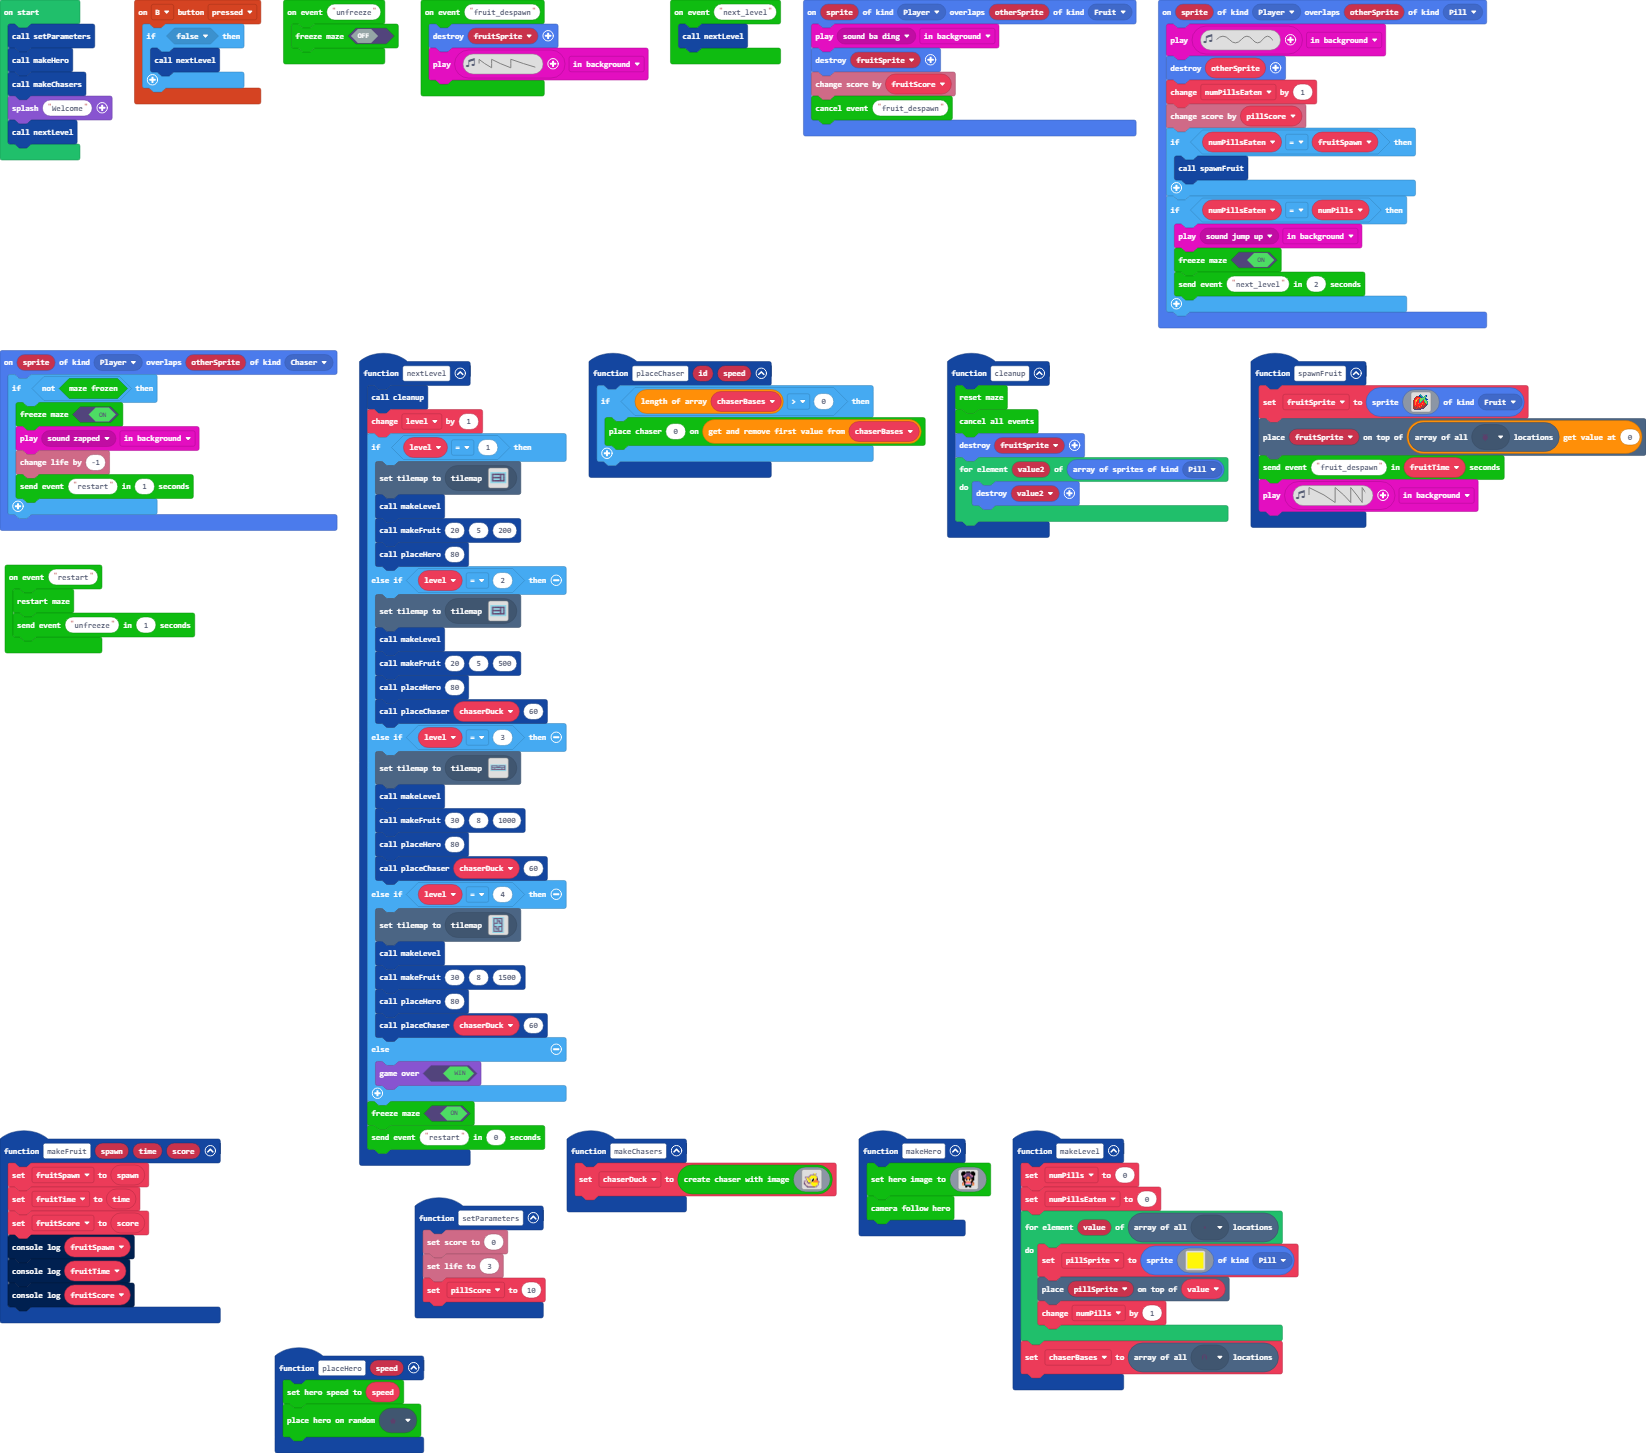
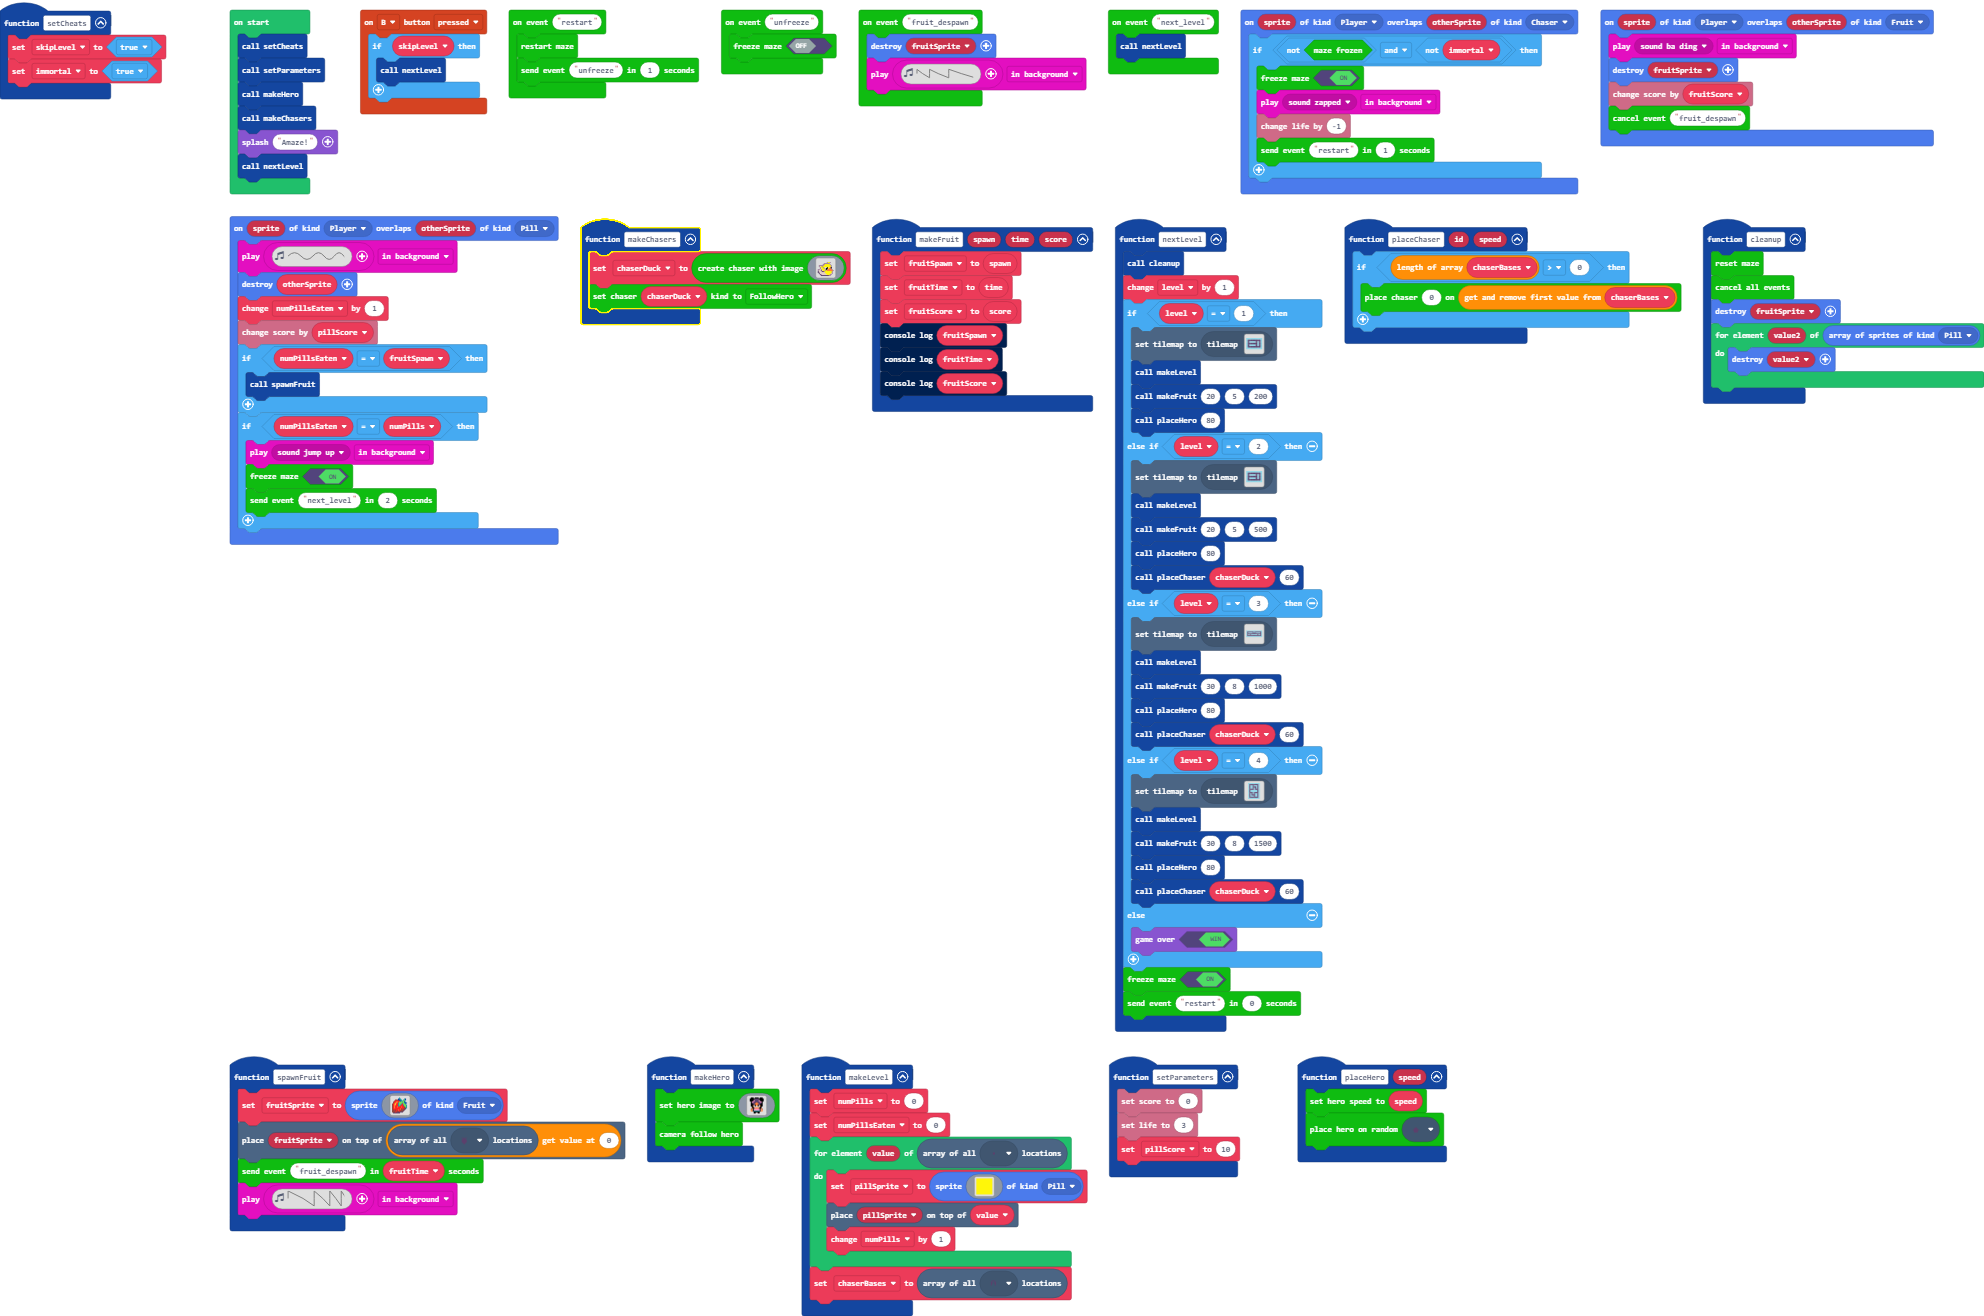
Chaser follow behaviour

diff --git a/maze_chaser.ts b/maze_chaser.ts
@@ -13,11 +13,19 @@ namespace maze {
         _mover: Mover
         _kind: ChaserKind
         _mode: ChaserMode
+        _homeX: number
+        _homeY: number
+        _targetX: number
+        _targetY: number
 
         constructor() {
             this._mover = new Mover()
             this._kind = ChaserKind.Random
             this._mode = ChaserMode.Chase
+            this._homeX = 0
+            this._homeY = 0
+            this._targetX = 0
+            this._targetY = 0
         }
 
         reset() {
@@ -34,10 +42,12 @@ namespace maze {
             if (stopped || m._changedTile) {
                 // Select the required behaviour
                 if (this._mode = ChaserMode.Scatter) {
-                    this.requestScatter()
+                    this.doScatter()
                 } else if (this._mode = ChaserMode.Chase) {
                     if (this._kind == ChaserKind.Random) {
-                        this.requestRandom()
+                        this.doRandom()
+                    } else if (this._kind == ChaserKind.FollowHero) {
+                        this.doFollow()
                     }
                 }
             }
@@ -45,15 +55,22 @@ namespace maze {
             this._mover.update()
         }
 
+        setHome() {
+            this._homeX = this._mover._tileX
+            this._homeY = this._mover._tileY
+        }
+
         private canMove(dir: Direction): boolean {
             return (this._mover._direction != opposite(dir) && this._mover.canMove(dir))
         }
 
-        private requestScatter() {
-
+        private doScatter() {
+            this._targetX = this._homeX
+            this._targetY = this._homeY
+            this.doTarget()
         }
 
-        private requestRandom() {
+        private doRandom() {
             let dirs: Direction[] = [Direction.Up, Direction.Right, Direction.Down, Direction.Left]
             let options: Direction[] = []
 
@@ -66,6 +83,40 @@ namespace maze {
             if (options.length > 0) {
                 const r = Math.randomRange(0, options.length - 1)
                 this._mover.request(options[r])
+            }
+        }
+
+        private doFollow() {
+            const hero = getMaze()._hero
+            this._targetX = hero._mover._tileX
+            this._targetY = hero._mover._tileY
+            this.doTarget()
+        }
+
+        private doTarget() {
+            // Get distance to target in each axis
+            const dx = (this._targetX - this._mover._tileX)
+            const dy = (this._targetY - this._mover._tileY)
+
+            // Decide prefered direction for each axis
+            const dirX = (dx > 0) ? Direction.Right : Direction.Left
+            const dirY = (dy > 0) ? Direction.Down : Direction.Up
+
+            let dirs: Direction[]
+            if (Math.abs(dx) > Math.abs(dy)) {
+                // Want to right direction in x then y
+                dirs = [dirX, dirY, opposite(dirY), opposite(dirX)]
+            } else {
+                // Want to right direction in y then x
+                dirs = [dirY, dirX, opposite(dirX), opposite(dirY)]
+            }
+
+            // Request the first direction than is allowed
+            for (const dir of dirs) {
+                if (this.canMove(dir)) {
+                    this._mover.request(dir)
+                    break
+                }
             }
         }
     }
@@ -96,6 +147,7 @@ namespace maze {
         const chaser = getChaser(id)
         if (chaser) {
             chaser._mover.placeOnImage(img)
+            chaser.setHome()
         }
     }
 
@@ -108,6 +160,7 @@ namespace maze {
         const chaser = getChaser(id)
         if (chaser) {
             chaser._mover.placeOnTile(loc)
+            chaser.setHome()
         }
     }
 
@@ -119,6 +172,17 @@ namespace maze {
         const chaser = getChaser(id)
         if (chaser) {
             chaser._mover._speed = speed
+        }
+    }
+
+    //% blockId=maze_chaser_set_kind
+    //% group="Chaser"
+    //% block="set chaser $id kind to $kind"
+    //% speed.defl=ChaserKind.Random
+    export function setChaserKind(id: number, kind: ChaserKind) {
+        const chaser = getChaser(id)
+        if (chaser) {
+            chaser._kind = kind
         }
     }
 }

diff --git a/maze_mover.ts b/maze_mover.ts
@@ -5,8 +5,8 @@ namespace maze {
         _y: number
         _vx: number
         _vy: number
-        _tx: number
-        _ty: number
+        _tileX: number
+        _tileY: number
         _canMove: number
         _direction: Direction
         _request: Direction
@@ -20,8 +20,8 @@ namespace maze {
             this._y = 0         // world y
             this._vx = 0
             this._vy = 0
-            this._tx = 0        // tilemap x
-            this._ty = 0        // tilemap y
+            this._tileX = 0        // tilemap x
+            this._tileY = 0        // tilemap y
             this._canMove = 0
             this._direction = Direction.None
             this._request = Direction.None
@@ -66,8 +66,8 @@ namespace maze {
                 this._y = this._sprite.y
                 this._vx = 0
                 this._vy = 0
-                this._tx = loc.col
-                this._ty = loc.row
+                this._tileX = loc.col
+                this._tileY = loc.row
                 this._direction = Direction.None
                 this._request = Direction.None
                 this._changedTile = false
@@ -99,9 +99,9 @@ namespace maze {
 
             const tx = loc.col
             const ty = loc.row
-            this._changedTile = (this._tx != tx) || (this._ty != ty)
-            this._tx = tx
-            this._ty = ty
+            this._changedTile = (this._tileX != tx) || (this._tileY != ty)
+            this._tileX = tx
+            this._tileY = ty
             this.updateCanMove()
 
             // Ignore if request is same as current direction
@@ -205,10 +205,10 @@ namespace maze {
         
         private updateCanMove() {
             this._canMove = 0
-            this.checkTile(this._tx, this._ty - 1, Direction.Up)
-            this.checkTile(this._tx + 1, this._ty, Direction.Right)
-            this.checkTile(this._tx, this._ty + 1, Direction.Down)
-            this.checkTile(this._tx - 1, this._ty, Direction.Left)
+            this.checkTile(this._tileX, this._tileY - 1, Direction.Up)
+            this.checkTile(this._tileX + 1, this._tileY, Direction.Right)
+            this.checkTile(this._tileX, this._tileY + 1, Direction.Down)
+            this.checkTile(this._tileX - 1, this._tileY, Direction.Left)
         }
 
         private checkTile(tx: number, ty: number, dir: Direction) {

diff --git a/main.ts b/main.ts
@@ -30,7 +30,7 @@ function makeHero () {
     maze.cameraFollowHero()
 }
 sprites.onOverlap(SpriteKind.Player, SpriteKind.Chaser, function (sprite, otherSprite) {
-    if (!(maze.isFrozen())) {
+    if (!(maze.isFrozen()) && !(immortal)) {
         maze.freeze(true)
         music.play(music.melodyPlayable(music.zapped), music.PlaybackMode.InBackground)
         info.changeLifeBy(-1)
@@ -38,7 +38,7 @@ sprites.onOverlap(SpriteKind.Player, SpriteKind.Chaser, function (sprite, otherS
     }
 })
 controller.B.onEvent(ControllerButtonEvent.Pressed, function () {
-    if (false) {
+    if (skipLevel) {
         nextLevel()
     }
 })
@@ -100,6 +100,7 @@ function makeChasers () {
         . . c b d d d d d 5 5 5 b b . . 
         . . . c c c c c c c c b b . . . 
         `)
+    maze.setChaserKind(chaserDuck, maze.ChaserKind.FollowHero)
 }
 function placeChaser (id: number, speed: number) {
     if (chaserBases.length > 0) {
@@ -158,6 +159,10 @@ function nextLevel () {
     maze.freeze(true)
     maze.sendEvent("restart", 0)
 }
+function setCheats () {
+    skipLevel = true
+    immortal = true
+}
 maze.onEvent("unfreeze", function () {
     maze.freeze(false)
 })
@@ -196,9 +201,12 @@ let chaserBases: tiles.Location[] = []
 let pillSprite: Sprite = null
 let numPillsEaten = 0
 let numPills = 0
+let skipLevel = false
+let immortal = false
 let pillScore = 0
+setCheats()
 setParameters()
 makeHero()
 makeChasers()
-game.splash("Welcome")
+game.splash("Amaze!")
 nextLevel()
